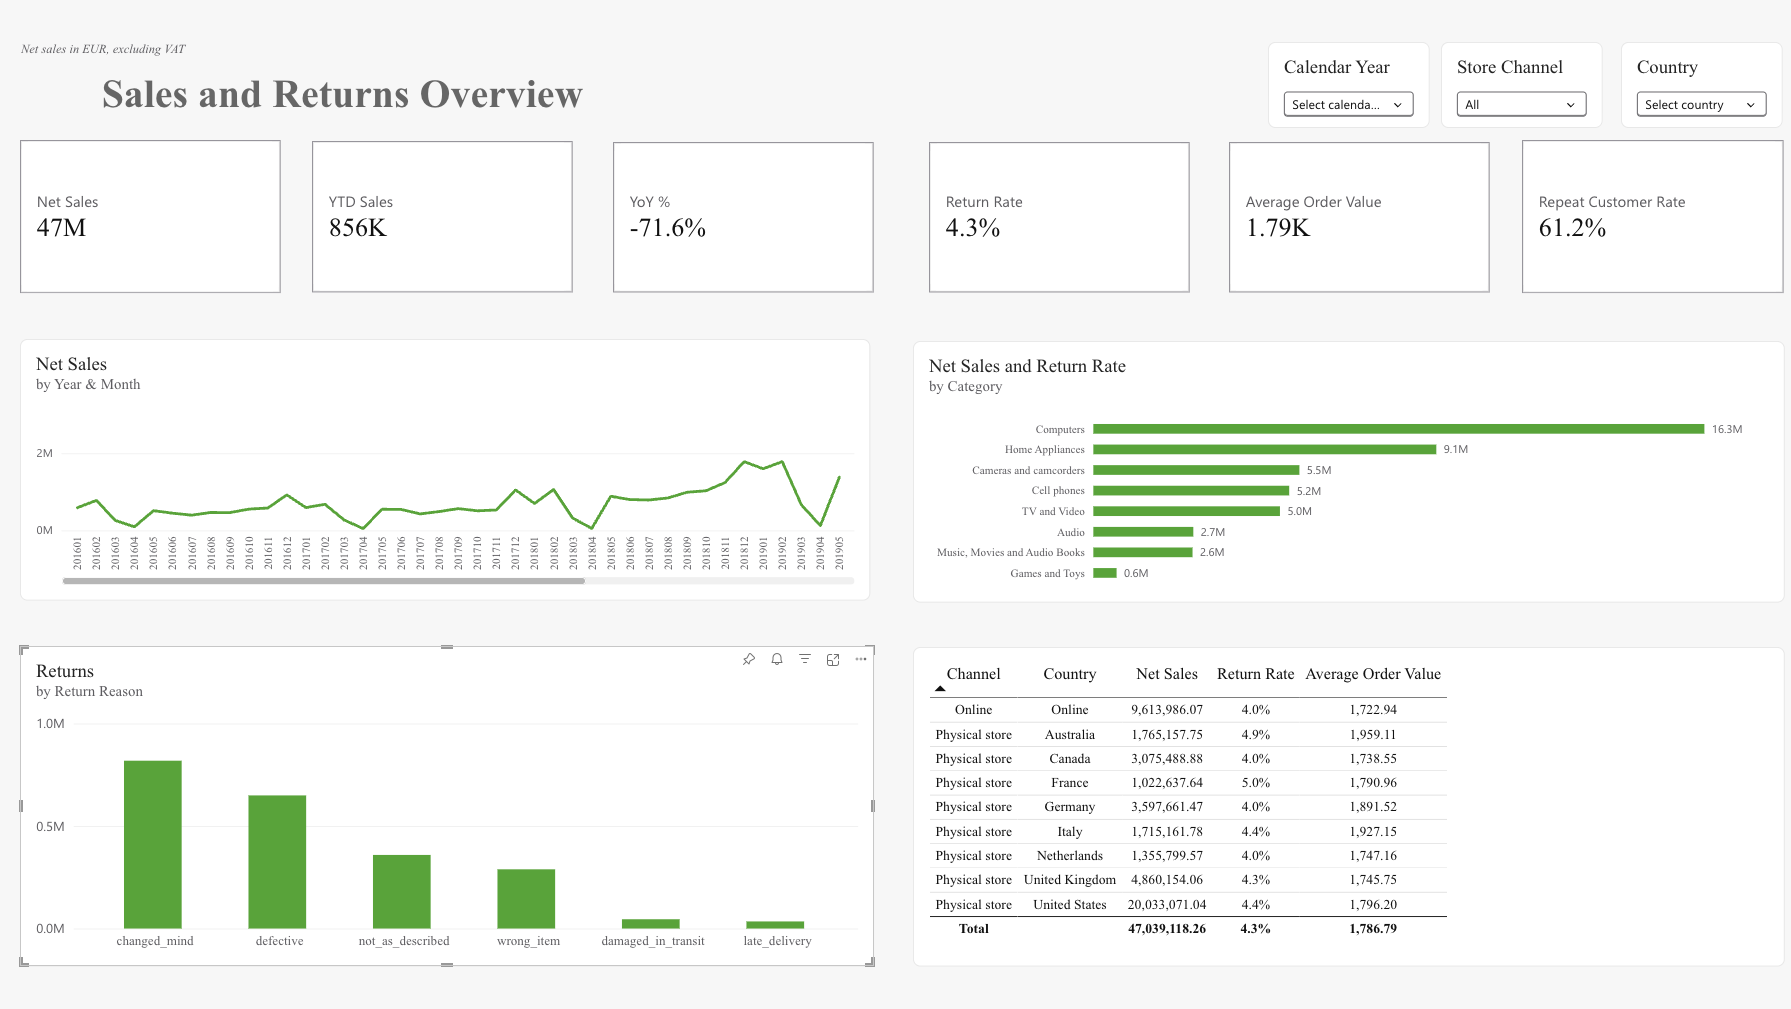
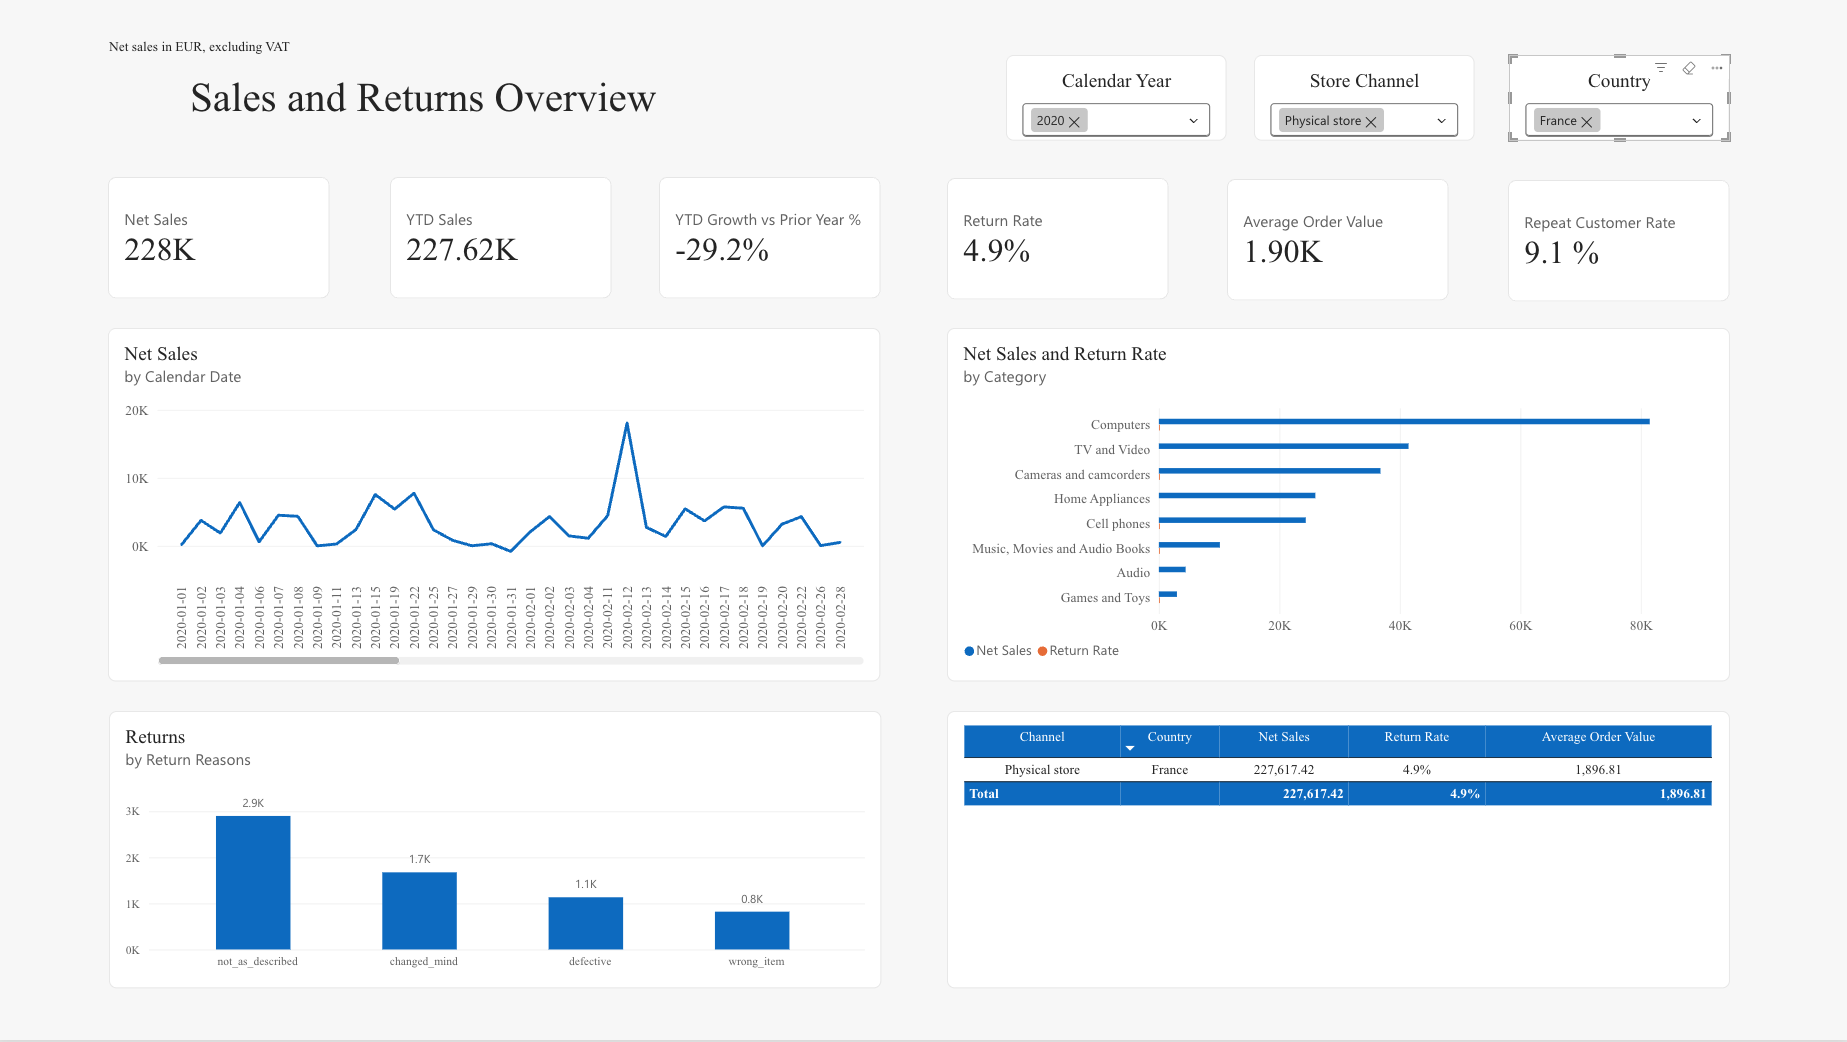
docs(evidence): update commercial overview screenshot
Report shown filtered to 2020, physical stores in France.

diff --git a/README.md b/README.md
@@ -5,7 +5,7 @@ An end-to-end Microsoft Fabric data product that turns multi-channel retail sale
 
 > **Status:** Bronze, Silver and the Gold star schema are built and validated: dbt builds six Gold tables in the Fabric Warehouse and all 62 models and tests pass. The Direct Lake semantic model and a one-page commercial overview report are built on top of Gold.
 
-![Commercial overview report, all years, no slicers applied](docs/evidence/day-07-commercial-overview.png)
+![Commercial overview report, 2020, physical stores in France](docs/evidence/day-07-commercial-overview.png)
 
 See [`powerbi/`](powerbi/README.md) for the semantic model, measures and report layout.
 

diff --git a/powerbi/README.md b/powerbi/README.md
@@ -82,4 +82,4 @@ from scratch**.
 | Bottom right | Table | `dim_store_channel[channel]`, `country`; Net Sales, Return Rate, Average Order Value |
 | Slicers | Slicer | `dim_date[calendar_year]`, `dim_store_channel[channel]`, `dim_customer[country]` |
 
-![Commercial overview report, all years, no slicers applied](../docs/evidence/day-07-commercial-overview.png)
+![Commercial overview report, 2020, physical stores in France](../docs/evidence/day-07-commercial-overview.png)
